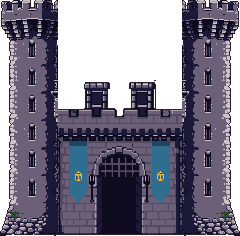
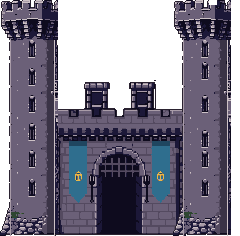
Lanternhold M1b polish 2: castleFront one value step above the rock at night (the towers' painted shadow band lifted, clean left highlight column, solid moon rim on the right edge), both towers lit from the same side, the right one with two moved arrow slits and a broken merlon; smaller wall-walk br

Changed region(s): [[0.7, 0.0, 1.0, 1.0], [0.175, 0.1483, 0.2333, 1.0], [0.0292, 0.1483, 0.0875, 1.0]]

diff --git a/games/lanternhold/tools/scenemock/layout_m1b.py b/games/lanternhold/tools/scenemock/layout_m1b.py
@@ -180,10 +180,12 @@ WORLD = [
     dict(s="castleFront", x=F, y=0, z=0,
          em=[("sprite", "brazierFlame", 93, 130, FIRE, False), ("sprite", "brazierFlame", 138, 130, FIRE, False),
              ("sprite", "flame", 90, 61, GOLD, True), ("sprite", "flame", 145, 61, GOLD, True),
-             ("mask", 29, 124, 6, 15, WIN), ("mask", 205, 124, 6, 15, WIN),
-             ("mask", 29, 69, 6, 15, WIN), ("mask", 205, 69, 6, 15, WIN)],
-         li=[("brazier", F + 97, 136, 56), ("brazier", F + 142, 136, 56),
-             ("torch", F + 92, 64, 30), ("torch", F + 147, 64, 30)]),
+             ("mask", 29, 124, 6, 15, WIN), ("mask", 202, 124, 6, 15, WIN),   # right tower unmirrored at x 173
+             ("mask", 29, 69, 6, 15, WIN), ("mask", 202, 69, 6, 15, WIN)],
+         # the wall-walk braziers smaller (44, was 56) and a warm pool in the gateway, so the king at the gate is the
+         # one focal point of the hero shot
+         li=[("brazier", F + 97, 136, 44), ("brazier", F + 142, 136, 44),
+             ("torch", F + 92, 64, 30), ("torch", F + 147, 64, 30), ("torch", F + 120, 14, 46)]),
     # --- inside: courtyard, great hall, chapel, kitchen ---
     # the courtyard wall runs from 1580, out of the gate view: from the gate, rock (the right flank, then the high
     # rock from the ground) closes the frame right of the right tower; inside, the castle is built into the throat
